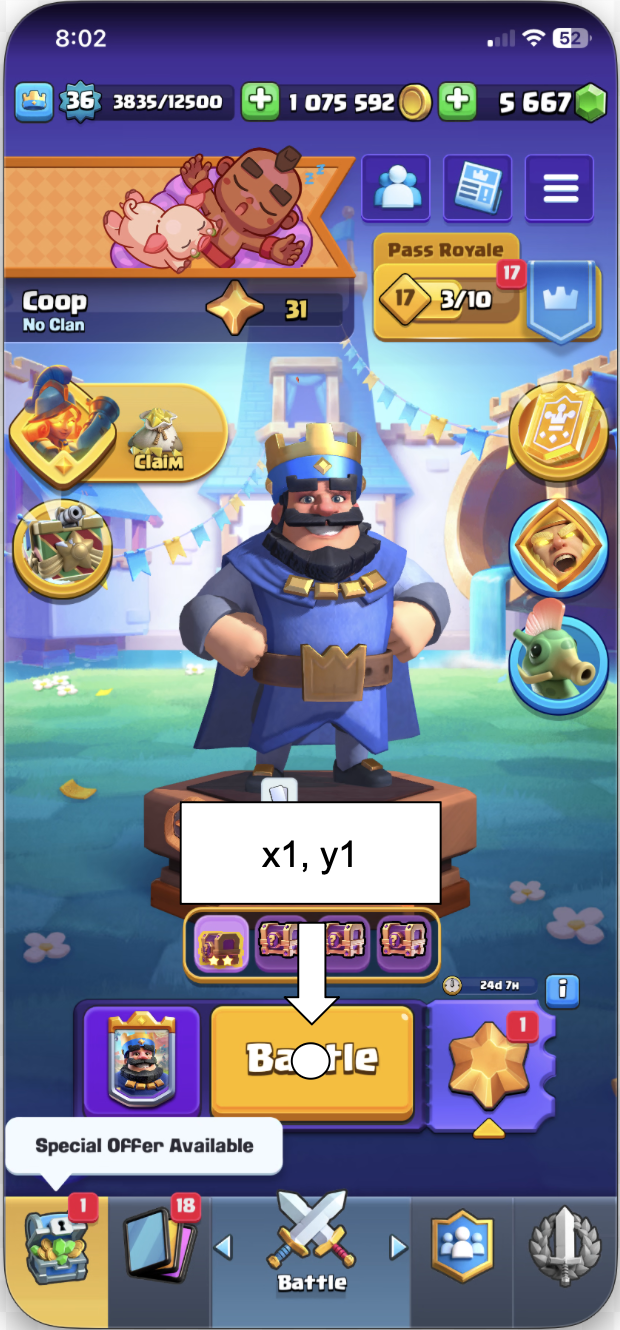
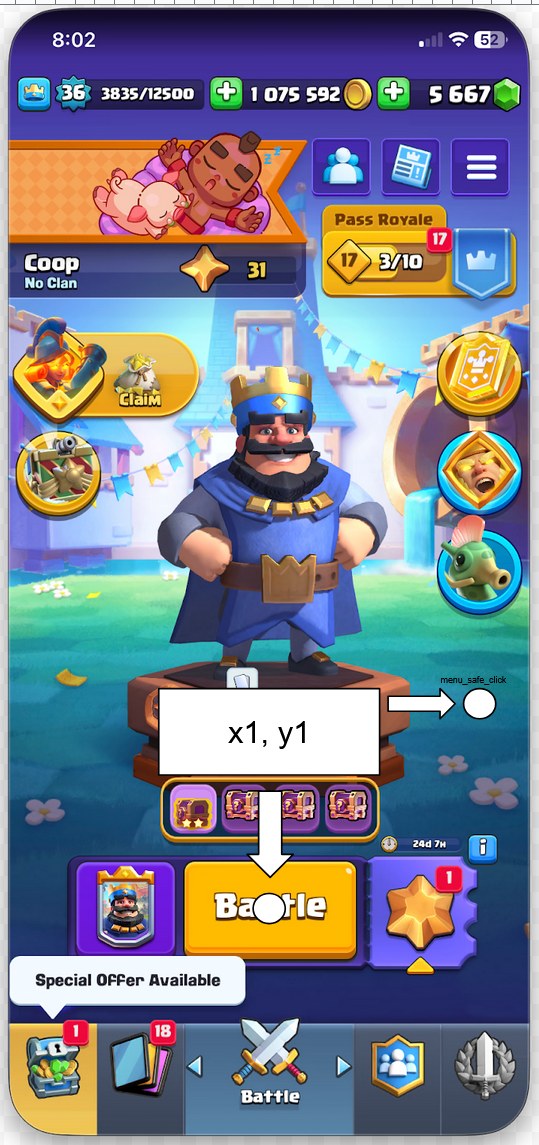
Updating readme

diff --git a/README.md b/README.md
@@ -147,7 +147,7 @@ To get a local copy up and running follow these simple example steps.
    pip install requirements.txt
    ```
 4. Enter your API in `example.env`. Rename it and add it to your `.gitignore`
-   ```js
+   ```
    ROBOFLOW_API_KEY = 'ENTER YOUR API';
    ```
 5. Create your config file
@@ -167,13 +167,18 @@ To get a local copy up and running follow these simple example steps.
 
       (For the rest of the setup images, a circle will denote just a point (x, y) while a square border will denote a region (x1, y1, x2, y2))
 
-    4. Navigate to the main menu and run the `check_window_bounds()` in the `setup_helper.py` file to get the coordinates for the battle button.
+    4. For the following steps, use the `on_press()` function to take screenshots of the screens, then use an image editor to see the exact coordiantes of the screenshot you need. I like to use the cropping feature which will then show you the new image size, like 640x640, which also servers as your x and y coordiantes.
+    Also, you should take screenshots of all the revelvant screens first and then go back fill out your config file.
+    
+    5. Naviagte to the main menu screen and take a screenshot. Then get the points for the variables below.
     ```sh
     "battle": [x, y],
+    ...
+    "menu_safe_click": [538, 684]
     ```
       <img src="./images/readme/battle_point.png" alt="Battle Point Image" width="200" height="400">
 
-    5. Navigate to the main battle screen and get the points and regions for the variables below. Continue to use the `check_window_bounds()` in the `setup_helper.py` to mark points and regions.
+    6. Navigate to the main battle screen, take a screenshot, and get the points and regions for the variables below. 
     ```sh
     "card_regions": [
             [x1, y1, x2, y2],
@@ -203,14 +208,14 @@ To get a local copy up and running follow these simple example steps.
     ```
       <img src="./images/readme/battle_screen.png" alt="Battle Point Image" width="200" height="400">
 
-    6. In the main battle screen click a troop to navigate to the card image and level screen and get the coordinates and regions for the variables below. Continue to use the `check_window_bounds()` in the `setup_helper.py` to mark points and regions.
+    7. In the main battle screen click a troop to navigate to the card image and level screen and take a screenshot. Next get the coordinates and regions for the variables below. 
     ```sh
     "card_picture_region": [[x1, y1, x2, y2]],
     "card_level_region": [[x1, y1, x2, y2]],
     ```
       <img src="./images/readme/card_image.png" alt="Battle Point Image" width="200" height="400">
 
-    7. At the end of the game, navigate to the end screen and get the coordianates and regions for the variables below. Continue to use the `check_window_bounds()` in the `setup_helper.py` to mark points and regions.
+    8. At the end of the game, navigate to the end screen, take a screenshot, and get the coordianates and regions for the variables below.
     ```sh
     "defeated_region": [[x1, y1, x2, y2]],
     "play_again_region": [[x1, y1, x2, y2]],
@@ -221,28 +226,37 @@ To get a local copy up and running follow these simple example steps.
     ```
       <img src="./images/readme/defeated_screen.png" alt="Battle Point Image" width="200" height="400">
 
-6. Update the system settings in your config file. `is_mac_laptop_screen` is true if you are on a mac laptop and the emulator is on the laptop screen. `is_roboflow` is true if you are using roboflow instead of running detection models locally. Using roboflow is recommended for now as the local detection is not as accurate. `env_path` is just the path to your .env file you renamed in step 4.
-  ```sh
-  "system_settings": {
-        "is_mac_laptop_screen": true,
-        "is_roboflow": true,
-        "env_path": "./example.env"
-    },
+    9. Update the system settings in your config file. `is_mac_laptop_screen` is true if you are on a mac laptop and the emulator is on the laptop screen. `is_roboflow` is true if you are using roboflow instead of running detection models locally. Using roboflow is recommended for now as the local detection is not as accurate. `env_path` is just the path to your .env file you renamed in step 4.
+      ```sh
+      "system_settings": {
+            "is_mac_laptop_screen": true,
+            "is_roboflow": true,
+            "env_path": "./example.env"
+        },
+      ```
+
+6. In `setup_helper.py`, fill out the `phase_region` the same as you have in the config file, update the `path` and `filename` to the path and filename of the screenshot of the battle screen, and run the `make_phase_picture()` function. This will make one of two phase icons needed. During a game you have to have the max amount of troops place, like 2/2, for the other phase icon to appear. Once you do that, use the `on_press()` function to take another screenshot of it. Then, update the `path` and `filename` to the path and filename of this new screenshot, and run the `make_phase_picture()` function. Once you have both images, move them to the `images/phase` folder. Reference images are below.
+
+<img src="./images/readme/solid.png" alt="Battle Point Image" width="100" height="100">
+<img src="./images/readme/translucent.png" alt="Battle Point Image" width="100" height="100">
+
+7. Finally, go to `train.py`, add the path to your config file to the `Agent()` constructor, and edit `bot.train()` to play how many games you want.
   ```
-5. Change git remote url to avoid accidental pushes to base project
-   ```sh
-   git remote set-url origin cooperbocko/clashml
-   git remote -v # confirm the changes
-   ```
+  bot = Agent('path/to/config.json', True)
 
-<p align="right">(<a href="#readme-top">back to top</a>)</p>
+  bot.train(# of games)
+  ```
 
+8. Run it!
+  ```bash
+  python train.py
+  ```
 
 
 <!-- USAGE EXAMPLES -->
 ## Usage
 
-Use this space to show useful examples of how a project can be used. Additional screenshots, code examples and demos work well in this space. You may also link to more resources.
+Loading...
 
 <p align="right">(<a href="#readme-top">back to top</a>)</p>
 
